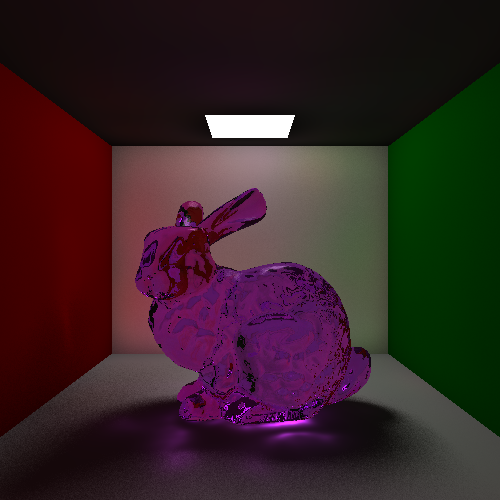
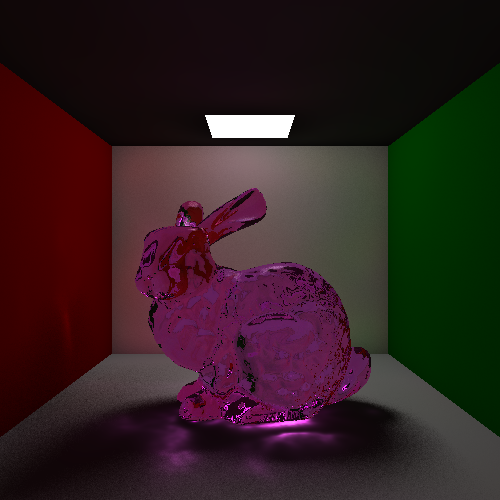
Added shadow photons

diff --git a/src/photonmappedscene.cpp b/src/photonmappedscene.cpp
@@ -13,22 +13,22 @@ lin_alg::Vector<3> PhotonMappedScene::CalculateColourAtIntersect(const RayInters
 
     lin_alg::Vector<3> pos = intersect.GetCorrectedPosition();
 
+    // TODO: Implement final gathering - this will only work on diffuse surfaces.
+    bool use_shadow_rays;
+    colour += photon_map->GetIrradianceEsitimate(intersect, cam.camera_focalpoint - pos, 2000, true, lighting_model, use_shadow_rays) * 20.0;
+
     for (const auto &light : light_sources)
     {
         std::vector<Ray> lightrays = light->GetLightRays(pos, 50);
-
         for (Ray &ray : lightrays)
         {
-            if (!InShadow(ray))
+            if (!use_shadow_rays || !InShadow(ray))
             {
                 colour += lighting_model->GetDiffuseLighting(*light, intersect).Scale(1.0 / lightrays.size());
                 colour += lighting_model->GetSpecularLighting(*light, intersect).Scale(1.0 / lightrays.size());
             }
         }
     }
-
-    // TODO: Implement final gathering - this will only work on diffuse surfaces.
-    colour += photon_map->GetIrradianceEsitimate(intersect, cam.camera_focalpoint - pos, 3000, true, lighting_model) * 30.0;
 
     if (intersect.material.GetReflectionConstant() > 0 && depth < max_reflection_depth)
     {
@@ -150,10 +150,7 @@ std::vector<Photon *> PhotonMappedScene::TraceLightRays(std::vector<PhotonPathRa
             //TODO: Add shadow photons
             for (unsigned i = 1; i < all_intersects.size(); ++i)
             {
-                // if ((all_intersects[i]->GetCorrectedPosition() - sphere_bound_centre).Magnitude() < sphere_bound_radius)
-                // {
-                //     //photons.push_back(new Photon(all_intersects[i]->GetCorrectedPosition(), photon_ray.ray.direction, {0, 0, 0}, Photon::Shadow));
-                // }
+                photons.push_back(new Photon(all_intersects[i]->GetCorrectedPosition(), photon_ray.ray.direction, {0, 0, 0}, Photon::Shadow));
             }
 
             GetPhotonOutcome(photons, photon_ray, all_intersects[0], true);
@@ -219,6 +216,10 @@ void PhotonMappedScene::GetPhotonOutcome(std::vector<Photon *> &photons, const P
         {
             photons.push_back(new Photon(intersect->GetCorrectedPosition(), photon_ray.ray.direction, photon_ray.intensity, Photon::Indirect));
         }
+        // else
+        // {
+        //     photons.push_back(new Photon(intersect->GetCorrectedPosition(), photon_ray.ray.direction, photon_ray.intensity, Photon::Direct));
+        // }
 
         if (outcome == Material::Absorbed)
         {
@@ -254,7 +255,7 @@ void PhotonMappedScene::GetPhotonOutcome(std::vector<Photon *> &photons, const P
 
 RGBImage *PhotonMappedScene::GetImage(unsigned resolution_width, unsigned resolution_height)
 {
-    PhotonMap *global_map = GetGlobalPhotonMap(global_photons);
+    PhotonMap *global_map = GetGlobalPhotonMap(50000);
     PhotonMap *caustic_map = GetCausticPhotonMap(500000);
 
     ThreadSafeImage *image = new ThreadSafeImage(resolution_width, resolution_height);
@@ -336,7 +337,8 @@ void PhotonMappedScene::PixelThreadTask(TaskQueue<PixelTask> &queue, ThreadSafeI
         for (Ray &ray : rays)
         {
             std::shared_ptr<RayIntersect> closest = GetRayIntersect(ray);
-            colour += caustic_map.GetIrradianceEsitimate(*closest, cam.camera_focalpoint - closest->GetCorrectedPosition(), 1000, true, lighting_model) * 8.0;
+            bool use_shadow_rays;
+            colour += caustic_map.GetIrradianceEsitimate(*closest, cam.camera_focalpoint - closest->GetCorrectedPosition(), 800, true, lighting_model, use_shadow_rays) * 8.0;
             colour += CalculateColourAtIntersect(*closest, &global_map);
         }
 

diff --git a/src/photonmap.cpp b/src/photonmap.cpp
@@ -152,7 +152,7 @@ void PhotonMap::ScalePhotons(double scalar)
     }
 }
 
-lin_alg::Vector<3> PhotonMap::GetIrradianceEsitimate(const RayIntersect& intersect, lin_alg::Vector<3> view_dir, unsigned N, bool cone_filter, LightingModel* lighting_model)
+lin_alg::Vector<3> PhotonMap::GetIrradianceEsitimate(const RayIntersect& intersect, lin_alg::Vector<3> view_dir, unsigned N, bool cone_filter, LightingModel* lighting_model, bool &use_shadow_rays)
 {
     lin_alg::Vector<3> estimate;
 
@@ -164,10 +164,11 @@ lin_alg::Vector<3> PhotonMap::GetIrradianceEsitimate(const RayIntersect& interse
     double radius;
     lin_alg::Vector<3> pos =intersect.GetCorrectedPosition();
     std::vector<Photon *> closest_photons = LocatePhotons(pos, N, radius);
+    use_shadow_rays = false;
 
     for (Photon *photon_ptr : closest_photons)
     {
-        if (photon_ptr->direction.DotProduct(intersect.normal) < 0.0)
+        if (photon_ptr->direction.DotProduct(intersect.normal) < 0.0 && photon_ptr->type == Photon::Indirect)
         {
             lin_alg::Vector<3> photon_radiance = lighting_model->EstimatedPhotonRadiance(*photon_ptr, intersect, view_dir);
             if (cone_filter)
@@ -176,6 +177,10 @@ lin_alg::Vector<3> PhotonMap::GetIrradianceEsitimate(const RayIntersect& interse
                 photon_radiance = photon_radiance * filter;
             }
             estimate += photon_radiance;
+        }
+        if (photon_ptr->type == Photon::Shadow)
+        {
+            use_shadow_rays = true;
         }
     }
 

diff --git a/src/main.cpp b/src/main.cpp
@@ -307,7 +307,7 @@ std::unique_ptr<Scene> CornellBox(unsigned max_thread)
     mesh->AddScale(0.7);
     mesh->AddTranslation(0.3, 0.2382, -0.5);
     mesh->ExecuteTransformation();
-    mesh->material.SetSpecularConstant(0.03).AddTransparency(GetColourVector(230, 120, 255), 1.5).AddReflection(0.07).IntialiseRussianRoulette();
+    mesh->material.SetSpecularConstant(0.03).AddTransparency(GetColourVector(255, 150, 255), 1.5).AddReflection(0.07).IntialiseRussianRoulette();
     MeshOctree *meshbound = new MeshOctree(mesh, 50);
 
     auto p1 = meshbound->node.p1;
@@ -330,7 +330,7 @@ std::unique_ptr<Scene> CornellBox(unsigned max_thread)
 
     pm_scene->AddMonitoring();
 
-    pm_scene->AddSampling(".\\out\\render.png", 500, 500, 100);
+    //pm_scene->AddSampling(".\\out\\render.png", 500, 500, 100);
 
     return std::unique_ptr<Scene>(pm_scene);;
 }
@@ -350,6 +350,6 @@ int main(int argc, char *argv[])
     auto scene5 = CornellBox(max_thread);
 
     const char *filename = (".\\out\\render.png");
-    //scene5->Render(filename, 500, 500);
+    scene5->Render(filename, 500, 500);
     //scene3->Render(filename, 1920, 1080);
 };

diff --git a/include/photonmap.h b/include/photonmap.h
@@ -31,7 +31,7 @@ public:
   };
 
   std::vector<Photon *> LocatePhotons(lin_alg::Vector<3> point, unsigned max, double &radius);
-  lin_alg::Vector<3> GetIrradianceEsitimate(const RayIntersect &intersect, lin_alg::Vector<3> view_dir, unsigned N, bool cone_filter, LightingModel *lighting_model);
+  lin_alg::Vector<3> GetIrradianceEsitimate(const RayIntersect &intersect, lin_alg::Vector<3> view_dir, unsigned N, bool cone_filter, LightingModel *lighting_model, bool &use_shadow_rays);
   void ScalePhotons(double scale);
   std::vector<Photon *> photons;
 
